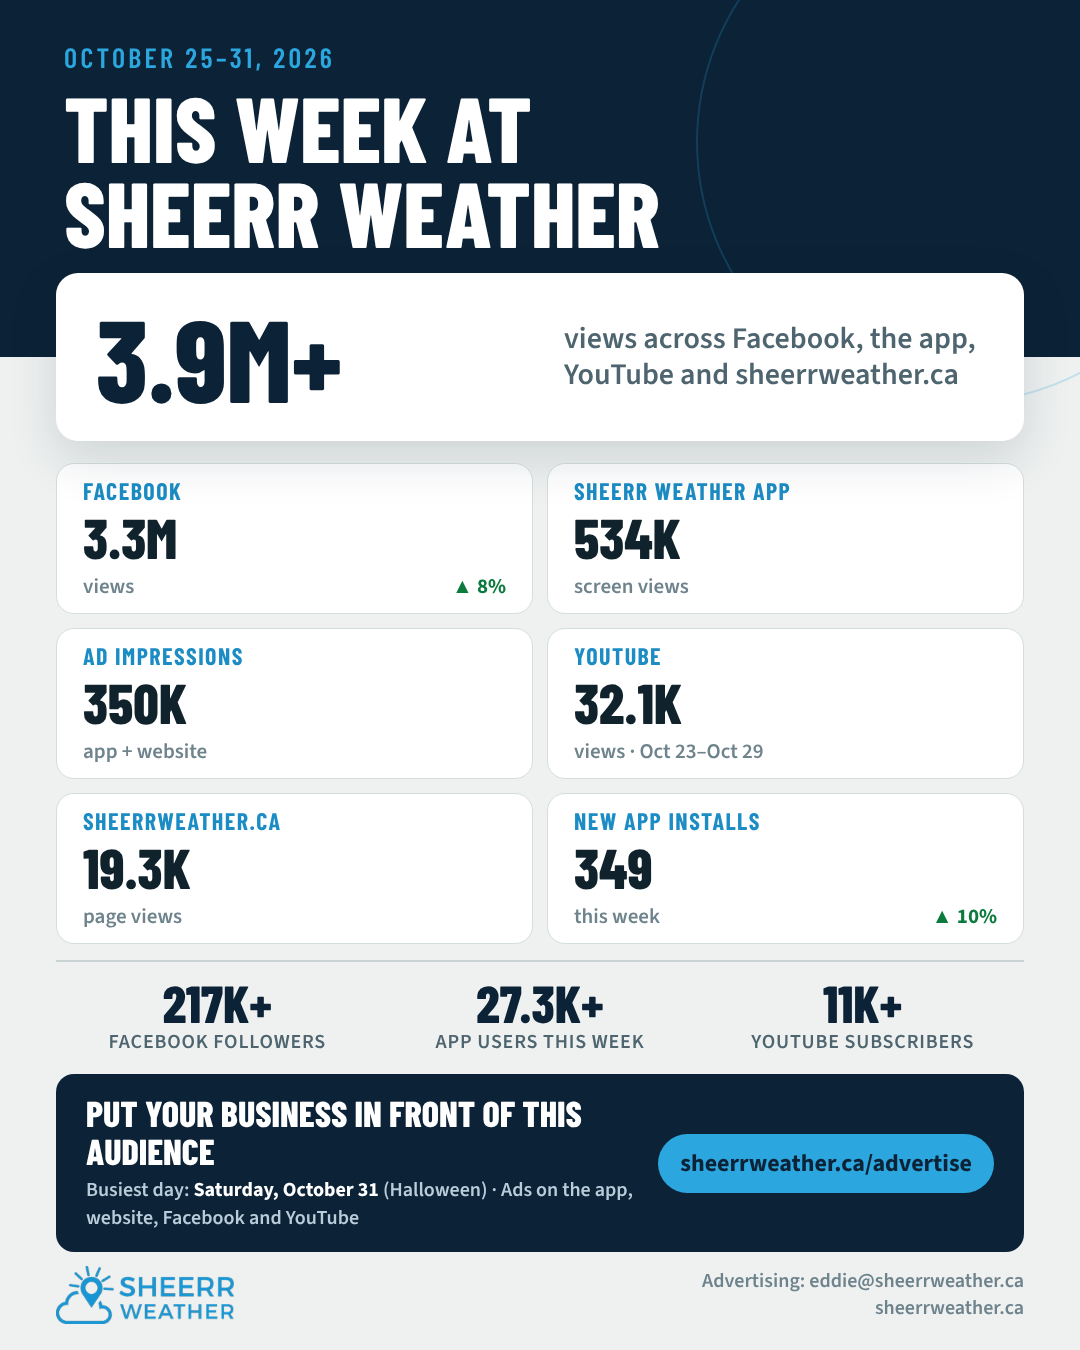
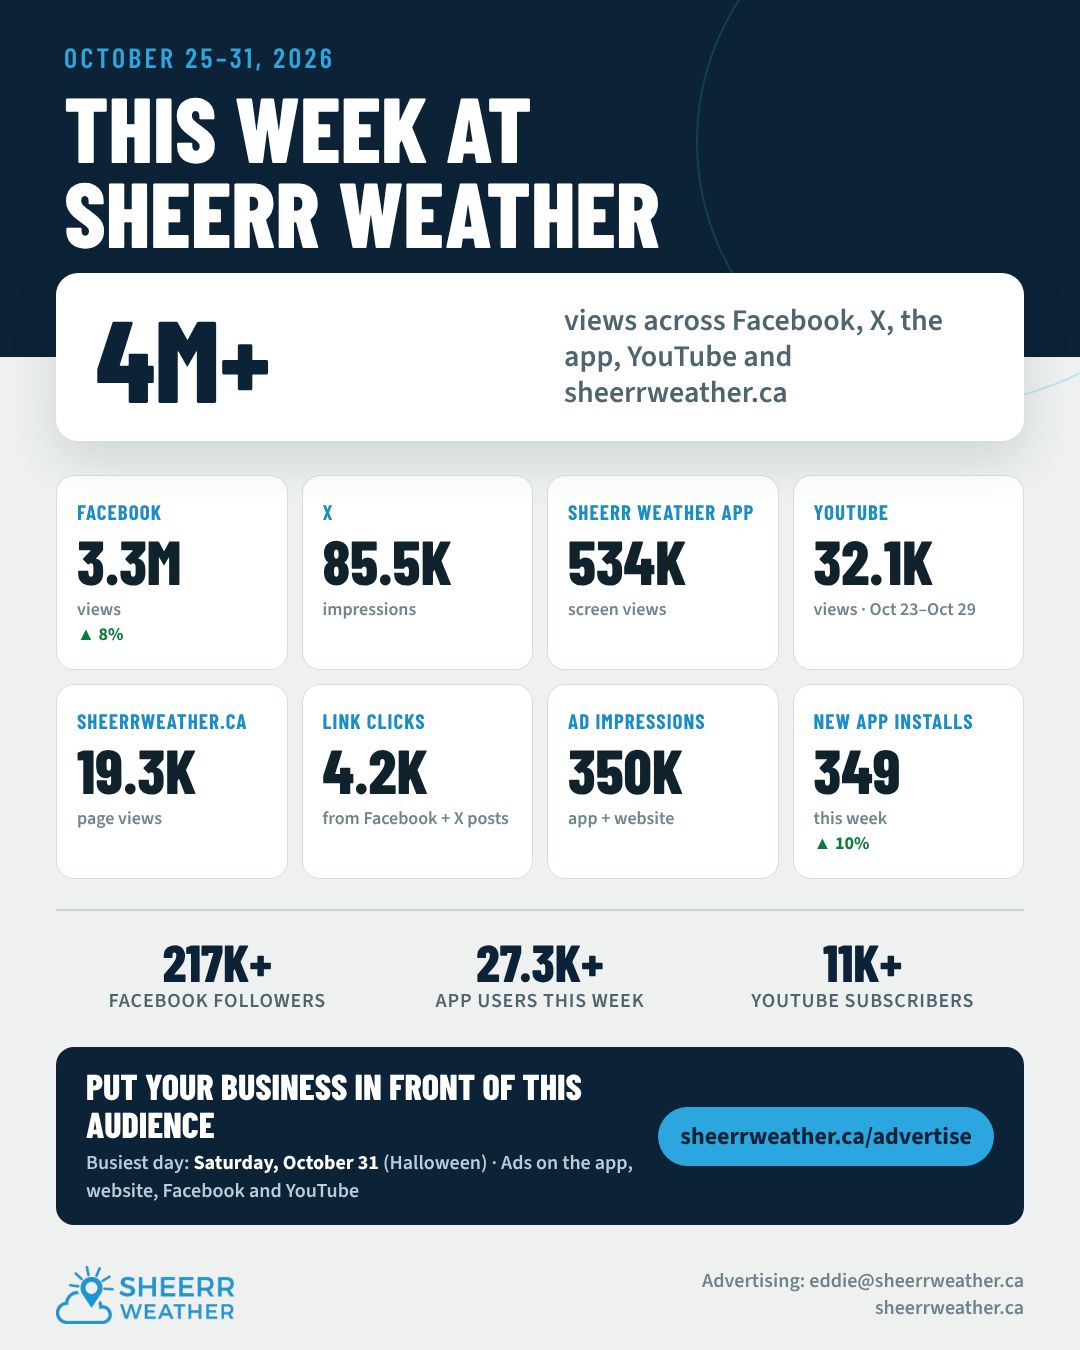
Add X (via Buffer) to Sheerr Stats notes and the weekly graphic
Claude-Session: https://claude.ai/code/session_019v65BrovnqBA8RbtsyLxHq

diff --git a/tools/weekly_graphic.py b/tools/weekly_graphic.py
@@ -56,6 +56,9 @@ def main(start, end, out, note=""):
     wk = days_between(start, end)
     pw = days_between(str(date.fromisoformat(start) - timedelta(days=7)), str(date.fromisoformat(end) - timedelta(days=7)))
     fbd, appd, webd, ytd, adsd = d["fb"]["page"]["daily"], d["app"]["daily"], d["web"]["daily"], d["yt"]["daily"], d["ads"]["daily"]
+    if d.get("x", {}).get("error"):
+        sys.exit("X (Buffer) stats error: " + d["x"]["error"])
+    xd, fbpd = d["x"]["daily"], d["fb"]["daily"]  # X: a post's lifetime numbers count on the day it was posted
     # YouTube data runs 2-3 days behind: use the latest 7 days that have it
     yt_last = max(str(r["k"]) for r in ytd if r.get("views") is not None and str(r["k"]) <= end.replace("-", ""))
     ye = date(int(yt_last[:4]), int(yt_last[4:6]), int(yt_last[6:]))
@@ -68,17 +71,20 @@ def main(start, end, out, note=""):
         "yt": (total(ytd, "views", ywk), total(ytd, "views", ypw)),
         "ads": (total(adsd, "imp", wk), total(adsd, "imp", pw)),
         "installs": (total(appd, "installs", wk), total(appd, "installs", pw)),
+        "x": (total(xd, "imp", wk), total(xd, "imp", pw)),
+        "clicks": (total(fbpd, "link", wk) + total(xd, "clicks", wk), total(fbpd, "link", pw) + total(xd, "clicks", pw)),
     }
-    tot = sum(m[k][0] for k in ("fb", "app", "web", "yt"))
-    ptot = sum(m[k][1] for k in ("fb", "app", "web", "yt"))
+    tot = sum(m[k][0] for k in ("fb", "x", "app", "web", "yt"))
+    ptot = sum(m[k][1] for k in ("fb", "x", "app", "web", "yt"))
     ga = api("sw-ga/v1/report?property=498016949", {"dateRanges": [{"startDate": start, "endDate": end}], "metrics": [{"name": "totalUsers"}]})
     app_users = int(ga["rows"][0]["metricValues"][0]["value"])
     busy = max(wk, key=lambda k: sum(total(rows, "views", [k]) for rows in (fbd, appd, webd)))
     s, e = date.fromisoformat(start), date.fromisoformat(end)
     rng = f"{s:%B} {s.day}–{e.day}, {e.year}" if s.month == e.month else f"{s:%B} {s.day} – {e:%B} {e.day}, {e.year}"
     ytsub = "views" + ("" if yt_last == end.replace("-", "") else f" · {date.fromisoformat(str(ye - timedelta(days=6))):%b} {(ye - timedelta(days=6)).day}–{ye:%b} {ye.day}")
-    tiles = [("Facebook", "views", m["fb"]), ("Sheerr Weather app", "screen views", m["app"]), ("Ad impressions", "app + website", m["ads"]),
-             ("YouTube", ytsub, m["yt"]), ("sheerrweather.ca", "page views", m["web"]), ("New app installs", "this week", m["installs"])]
+    tiles = [("Facebook", "views", m["fb"]), ("X", "impressions", m["x"]), ("Sheerr Weather app", "screen views", m["app"]), ("YouTube", ytsub, m["yt"]),
+             ("sheerrweather.ca", "page views", m["web"]), ("Link clicks", "from Facebook + X posts", m["clicks"]), ("Ad impressions", "app + website", m["ads"]),
+             ("New app installs", "this week", m["installs"])]
     tiles_html = "".join(f'<div class="t"><div class="tl">{a}</div><div class="tv">{fmt(v[0])}</div><div class="ts"><span>{b}</span>{chg(*v)}</div></div>' for a, b, v in tiles)
     subs = int(d["yt"]["channel"]["subscriberCount"])
     fol = [(fmt(d["fb"]["followers"]) + "+", "Facebook followers"), (fmt(app_users) + "+", "App users this week"), (fmt(subs) + "+", "YouTube subscribers")]
@@ -98,15 +104,15 @@ h1{{font:800 92px/.92 "Barlow Condensed";text-transform:uppercase;margin:10px 0 
 .big .n{{font:800 116px/1 "Barlow Condensed";color:#0C2236}}
 .big .l{{font:600 30px/1.2 "Source Sans 3";color:#4E656F;max-width:420px}}
 .big .l em{{margin-top:6px;font-size:24px}}
-.grid{{display:grid;grid-template-columns:1fr 1fr;gap:14px;padding:22px 56px 0}}
-.t{{background:#fff;border:1px solid #D5DDDE;border-radius:18px;padding:12px 26px}}
-.tl{{font:700 24px "Barlow Condensed";letter-spacing:.06em;text-transform:uppercase;color:#1C8CC4}}
-.tv{{font:800 56px/1 "Barlow Condensed";color:#10222B;margin-top:4px}}
-.ts{{font:600 21px "Source Sans 3";color:#6E838C;margin-top:6px;display:flex;justify-content:space-between;gap:10px}}
+.grid{{display:grid;grid-template-columns:repeat(4,1fr);gap:14px;padding:34px 56px 0}}
+.t{{background:#fff;border:1px solid #D5DDDE;border-radius:18px;padding:24px 20px 22px}}
+.tl{{font:700 21px/1.1 "Barlow Condensed";letter-spacing:.05em;text-transform:uppercase;color:#1C8CC4;white-space:nowrap;overflow:hidden;text-overflow:ellipsis}}
+.tv{{font:800 62px/1 "Barlow Condensed";color:#10222B;margin-top:6px}}
+.ts{{font:600 18px/1.25 "Source Sans 3";color:#6E838C;margin-top:8px;display:flex;flex-direction:column;gap:2px;min-height:48px}}
 em{{font-style:normal;font-weight:700;white-space:nowrap}}em.up{{color:#0A7A3D}}
-.fol{{display:grid;grid-template-columns:repeat(3,1fr);margin:16px 56px 0;border-top:2px solid #C9D3D4;padding-top:14px}}
+.fol{{display:grid;grid-template-columns:repeat(3,1fr);margin:30px 56px 0;border-top:2px solid #C9D3D4;padding-top:24px}}
 .fol div{{text-align:center}}.fol b{{display:block;font:800 52px/1 "Barlow Condensed";color:#0C2236}}.fol span{{font:600 20px "Source Sans 3";color:#4E656F;text-transform:uppercase;letter-spacing:.04em}}
-.cta{{margin:18px 56px 0;background:#0C2236;border-radius:18px;padding:20px 30px;display:flex;align-items:center;justify-content:space-between;gap:20px;color:#fff}}
+.cta{{margin:32px 56px 0;background:#0C2236;border-radius:18px;padding:20px 30px;display:flex;align-items:center;justify-content:space-between;gap:20px;color:#fff}}
 .cta b{{display:block;font:800 36px/1.05 "Barlow Condensed";text-transform:uppercase}}.cta span{{display:block;margin-top:6px;font:600 20px "Source Sans 3";color:#B9CCDA}}.cta span b{{display:inline;font:700 20px "Source Sans 3";text-transform:none;color:#fff}}
 .cta i{{font:700 24px "Source Sans 3";font-style:normal;color:#0C2236;background:#2BA6DE;border-radius:999px;padding:12px 22px;white-space:nowrap}}
 .busy{{margin:14px 56px 0;font:400 24px "Source Sans 3";color:#4E656F;text-align:center}}.busy b{{color:#10222B}}
@@ -114,7 +120,7 @@ em{{font-style:normal;font-weight:700;white-space:nowrap}}em.up{{color:#0A7A3D}}
 .ft img{{height:58px}}.ft span{{font:600 20px "Source Sans 3";color:#6E838C;text-align:right;line-height:1.35}}
 </style></head><body><div class="g" id="graphic">
 <div class="hd"><div class="ey">{rng}</div><h1>This week at<br>Sheerr Weather</h1></div>
-<div class="big"><div class="n">{fmt(tot)}+</div><div class="l">views across Facebook, the app, YouTube and sheerrweather.ca{big_chg}</div></div>
+<div class="big"><div class="n">{fmt(tot)}+</div><div class="l">views across Facebook, X, the app, YouTube and sheerrweather.ca{big_chg}</div></div>
 <div class="grid">{tiles_html}</div>
 <div class="fol">{fol_html}</div>
 <div class="cta"><div><b>Put your business in front of this audience</b><span>{busy_line} · Ads on the app, website, Facebook and YouTube</span></div><i>sheerrweather.ca/advertise</i></div>

diff --git a/CLAUDE.md b/CLAUDE.md
@@ -61,6 +61,7 @@ WordPress site, not the Python code in this repo. Write to Eddie in plain langua
 | 108 | **Live Cams "Latest forecast + app" card**: on /live-cams/ and each camera page (`sw_is_livecam_page()`, snippet 7) a card under the player (or under the camera grid) links to the newest Morning Briefing / Evening Forecast and /get-the-app/; printed in wp_footer and moved into place by JS. Added Oct 30, 2026 because most camera visits land straight on a cam page (stormpost.com homepage links to the cams, incl. old Squarespace URLs /grotto-camera, /rsjr-cam, /the-post-taphouse-camera) and leave after one page |
 | 113 | **Buffer** (buffer.com, admin-only): API key in Settings → General ("Buffer API key", option `sw_buffer_key`, never shown back). `GET /wp-json/sw-buffer/v1/status` (organization + channels), `POST /wp-json/sw-buffer/v1/graphql` {query, variables?} raw GraphQL to api.buffer.com (mutations logged in option `sw_buffer_log`). Organization `67571d5b3546740eb2d16e38`; channels (Nov 1, 2026): **X** @EddieSheerr `6a856d9eccaf649a67d53367`, **Threads** eddiesheerr `675738ba57675dc8283b84d4`, **Bluesky** eddiesheerr.bsky.social `67571e4557675dc8288a5ad0`. Post with `createPost(input:{text, channelId, schedulingType: automatic, mode: addToQueue \| shareNow \| customScheduled (+dueAt), assets:[{image:{url}}]})` (public media URLs). Facebook stays on snippet 42. Show Eddie the text first unless he says to post |
 | 114 | **Sheerr App Alerts** (from Eddie's `sheerr-app-alerts.zip` v0.1.0, installed as a snippet Nov 1, 2026 because the plugin upload got "Forbidden"): on a post's **first** publication, sends headline / push text / excerpt / link (HMAC-signed) to Eddie's private alert service `https://mc-otws0bt8ob.bunny.run/api/push/wordpress` ~30 s later via wp-cron. Service is in **preview mode** (records, doesn’t deliver). Connected Nov 1, 2026 (key made on the service’s /push page with the Forecast Editor password, test passed). Settings → Sheerr App Alerts (service URL, connection key, "automatic" default). Per post: REST meta `sheerr_push_mode` (`send` / `off` / `default`) + `sheerr_push_text` (≤200 chars); status in `_sheerr_push_status`. Description uses the post excerpt, so give posts a real excerpt |
+| 116 | **X stats via Buffer** (feeds Sheerr Stats' X section, snippet 45 key `x`): `sw_stats_x($days)` = totals/prev/daily/weekly/top for @EddieSheerr (impressions, link clicks, likes, reposts, replies). Buffer keeps each post's lifetime numbers and updates them overnight; a post counts on the day it was posted (NL). Posts cached in option `sw_x_posts` (1 h, 182 days back). `GET /wp-json/sw-stats/v1/x?days=7\|28\|90[&refresh=1]`. Buffer's X history starts ~Aug 2026. The weekly LinkedIn graphic (`tools/weekly_graphic.py`) adds X impressions to the total and has X + "Link clicks (Facebook + X posts)" tiles |
 | 48 | YouTube (Analytics + Data API, OAuth as eddie.sheerr@gmail.com, Google Cloud project "Sheerr Weather Website", app published/External): client ID/secret + Connect button in Settings → General, refresh token in option `sw_yt_refresh`. `GET /wp-json/sw-yt/v1/status`, `POST /wp-json/sw-yt/v1/report` (reports.query params), `POST /wp-json/sw-yt/v1/data` {path, params}. Data lags 2–3 days; thumbnail impressions/CTR not available via API. Also feeds the YouTube section of Sheerr Stats |
 
 ### Claude dashboard
